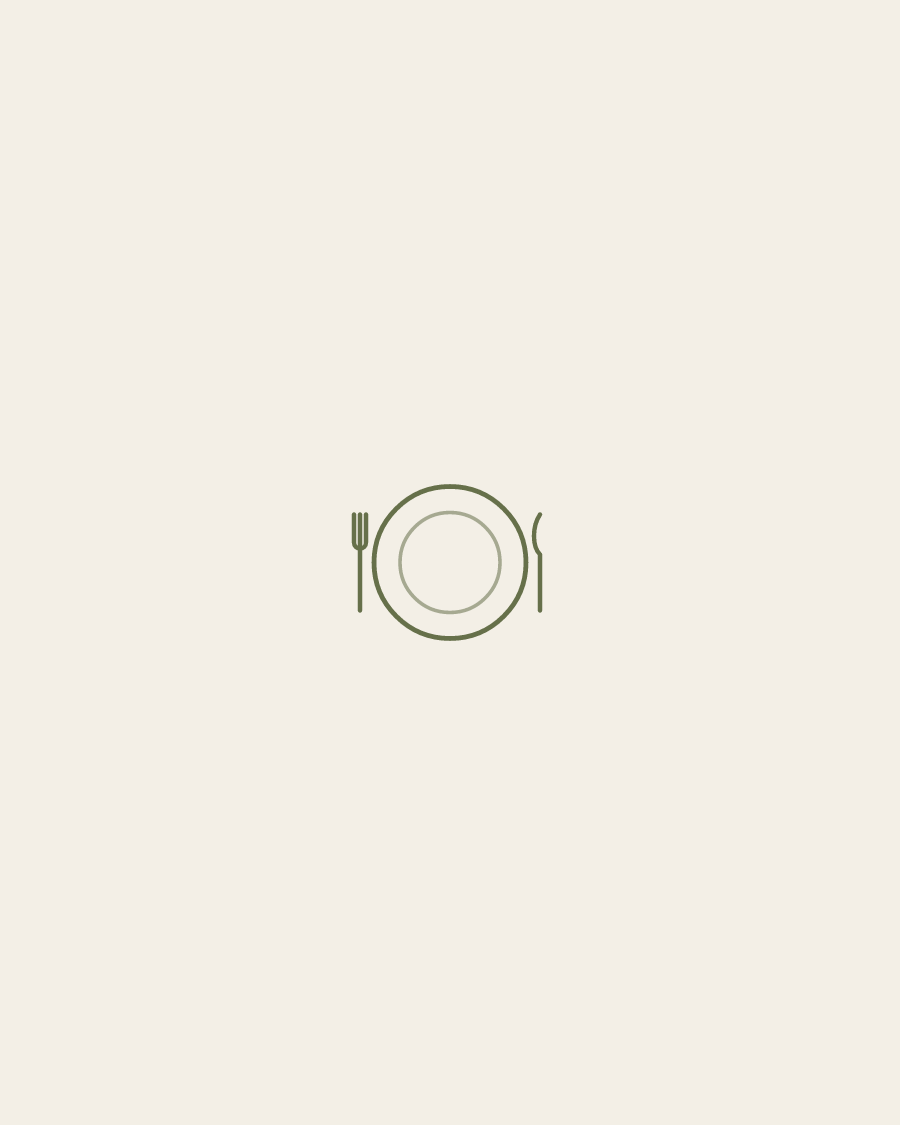
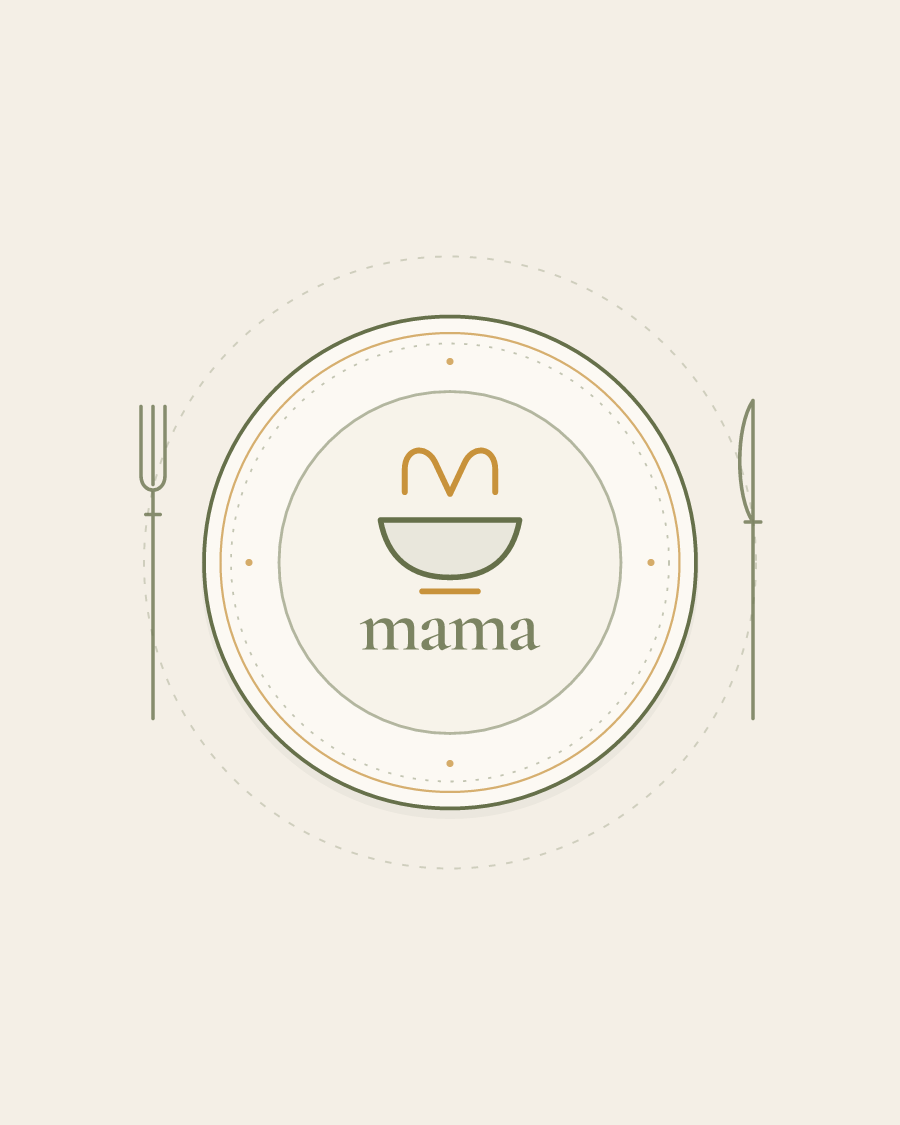
Bespoke large Mama porcelain plate SVG placeholder and expo-updates auto-reload

diff --git a/src/components/common/MamaPlatePlaceholder.tsx b/src/components/common/MamaPlatePlaceholder.tsx
@@ -1,6 +1,6 @@
 import React from 'react';
 import { View, StyleSheet, StyleProp, ViewStyle } from 'react-native';
-import Svg, { Circle, Path } from 'react-native-svg';
+import Svg, { Circle, G, Path } from 'react-native-svg';
 
 interface MamaPlatePlaceholderProps {
   variant?: 'linen' | 'dark';
@@ -8,18 +8,38 @@ interface MamaPlatePlaceholderProps {
   style?: StyleProp<ViewStyle>;
 }
 
+const MAMA_M_FIRST =
+  'M124.546 190C124.358 190 124.264 189.812 124.264 189.436C124.264 189.06 124.358 188.872 124.546 188.872C126.614 188.872 128.024 188.433 128.776 187.556C129.528 186.679 129.904 184.955 129.904 182.386V168.38C129.904 161.487 127.429 158.04 122.478 158.04C120.41 158.04 118.405 158.604 116.462 159.732C114.519 160.86 112.89 162.395 111.574 164.338L111.104 163.21C113.423 159.826 115.898 157.225 118.53 155.408C121.225 153.591 124.076 152.682 127.084 152.682C130.343 152.682 132.881 153.622 134.698 155.502C136.515 157.382 137.424 160.296 137.424 164.244V182.386C137.424 184.955 137.769 186.679 138.458 187.556C139.21 188.433 140.651 188.872 142.782 188.872C143.033 188.872 143.158 189.06 143.158 189.436C143.158 189.812 143.033 190 142.782 190C141.591 190 140.213 189.969 138.646 189.906C137.079 189.843 135.419 189.812 133.664 189.812C131.909 189.812 130.249 189.843 128.682 189.906C127.115 189.969 125.737 190 124.546 190ZM100.012 190C99.824 190 99.73 189.812 99.73 189.436C99.73 189.06 99.824 188.872 100.012 188.872C102.143 188.872 103.553 188.433 104.242 187.556C104.994 186.679 105.37 184.955 105.37 182.386V168.38C105.37 161.487 102.895 158.04 97.944 158.04C95.9386 158.04 93.9333 158.604 91.928 159.732C89.9853 160.86 88.356 162.395 87.04 164.338L86.57 163.21C88.8886 159.826 91.364 157.225 93.996 155.408C96.6906 153.591 99.542 152.682 102.55 152.682C105.871 152.682 108.409 153.591 110.164 155.408C111.981 157.225 112.89 159.92 112.89 163.492V182.386C112.89 184.955 113.266 186.679 114.018 187.556C114.77 188.433 116.211 188.872 118.342 188.872C118.53 188.872 118.624 189.06 118.624 189.436C118.624 189.812 118.53 190 118.342 190C117.089 190 115.679 189.969 114.112 189.906C112.545 189.843 110.885 189.812 109.13 189.812C107.438 189.812 105.777 189.843 104.148 189.906C102.581 189.969 101.203 190 100.012 190ZM75.854 190C75.666 190 75.572 189.812 75.572 189.436C75.572 189.06 75.666 188.872 75.854 188.872C77.9846 188.872 79.3946 188.433 80.084 187.556C80.7733 186.679 81.118 184.955 81.118 182.386V164.432C81.118 162.427 80.8986 160.954 80.46 160.014C80.0213 159.074 79.238 158.604 78.11 158.604C77.546 158.604 76.8566 158.729 76.042 158.98C75.2273 159.231 74.35 159.575 73.41 160.014C73.1593 160.077 72.94 159.951 72.752 159.638C72.6266 159.262 72.658 159.043 72.846 158.98L85.16 152.964C85.4733 152.839 85.6926 152.776 85.818 152.776C86.4446 152.776 87.0713 153.497 87.698 154.938C88.3873 156.379 88.732 158.479 88.732 161.236V182.386C88.732 184.955 89.0766 186.679 89.766 187.556C90.518 188.433 91.9593 188.872 94.09 188.872C94.278 188.872 94.372 189.06 94.372 189.436C94.372 189.812 94.278 190 94.09 190C92.8993 190 91.5206 189.969 89.954 189.906C88.3873 189.843 86.7266 189.812 84.972 189.812C83.28 189.812 81.6193 189.843 79.99 189.906C78.4233 189.969 77.0446 190 75.854 190Z';
+
+const MAMA_A_FIRST =
+  'M171.409 190.564C171.159 190.689 170.877 190.752 170.563 190.752C169.561 190.752 168.558 190.031 167.555 188.59C166.553 187.149 166.051 185.049 166.051 182.292V165.748C166.051 161.8 165.644 158.949 164.829 157.194C164.077 155.439 162.855 154.562 161.163 154.562C159.597 154.562 158.375 155.032 157.497 155.972C156.683 156.849 156.087 157.883 155.711 159.074C155.335 160.202 155.116 161.173 155.053 161.988C154.865 163.555 154.364 164.745 153.549 165.56C152.797 166.375 151.701 166.782 150.259 166.782C148.818 166.782 147.784 166.469 147.157 165.842C146.531 165.153 146.217 164.369 146.217 163.492C146.217 162.113 146.844 160.797 148.097 159.544C149.413 158.228 151.043 157.069 152.985 156.066C154.991 155.063 157.059 154.28 159.189 153.716C161.32 153.089 163.2 152.776 164.829 152.776C167.399 152.776 169.498 153.591 171.127 155.22C172.819 156.849 173.665 159.419 173.665 162.928V179.848C173.665 181.791 173.979 183.263 174.605 184.266C175.232 185.269 176.141 185.77 177.331 185.77C178.334 185.77 179.462 185.488 180.715 184.924C181.029 184.799 181.248 184.924 181.373 185.3C181.499 185.613 181.405 185.833 181.091 185.958L171.409 190.564ZM153.737 190.658C151.105 190.658 149.131 190.031 147.815 188.778C146.562 187.525 145.935 185.927 145.935 183.984C145.935 182.229 146.405 180.819 147.345 179.754C148.285 178.626 149.601 177.717 151.293 177.028C152.985 176.276 154.865 175.524 156.933 174.772L166.991 171.012L167.273 172.422L160.411 175.336C159.659 175.587 158.845 175.963 157.967 176.464C157.09 176.903 156.338 177.498 155.711 178.25C155.147 179.002 154.865 180.005 154.865 181.258C154.865 182.762 155.367 183.984 156.369 184.924C157.372 185.801 158.5 186.24 159.753 186.24C160.317 186.24 160.881 186.177 161.445 186.052C162.009 185.864 162.667 185.519 163.419 185.018L168.495 181.634L168.589 183.044L161.915 187.744C160.474 188.747 159.127 189.499 157.873 190C156.683 190.439 155.304 190.658 153.737 190.658Z';
+
+const MAMA_M_SECOND =
+  'M230.63 190C230.442 190 230.348 189.812 230.348 189.436C230.348 189.06 230.442 188.872 230.63 188.872C232.698 188.872 234.108 188.433 234.86 187.556C235.612 186.679 235.988 184.955 235.988 182.386V168.38C235.988 161.487 233.513 158.04 228.562 158.04C226.494 158.04 224.489 158.604 222.546 159.732C220.603 160.86 218.974 162.395 217.658 164.338L217.188 163.21C219.507 159.826 221.982 157.225 224.614 155.408C227.309 153.591 230.16 152.682 233.168 152.682C236.427 152.682 238.965 153.622 240.782 155.502C242.599 157.382 243.508 160.296 243.508 164.244V182.386C243.508 184.955 243.853 186.679 244.542 187.556C245.294 188.433 246.735 188.872 248.866 188.872C249.117 188.872 249.242 189.06 249.242 189.436C249.242 189.812 249.117 190 248.866 190C247.675 190 246.297 189.969 244.73 189.906C243.163 189.843 241.503 189.812 239.748 189.812C237.993 189.812 236.333 189.843 234.766 189.906C233.199 189.969 231.821 190 230.63 190ZM206.096 190C205.908 190 205.814 189.812 205.814 189.436C205.814 189.06 205.908 188.872 206.096 188.872C208.227 188.872 209.637 188.433 210.326 187.556C211.078 186.679 211.454 184.955 211.454 182.386V168.38C211.454 161.487 208.979 158.04 204.028 158.04C202.023 158.04 200.017 158.604 198.012 159.732C196.069 160.86 194.44 162.395 193.124 164.338L192.654 163.21C194.973 159.826 197.448 157.225 200.08 155.408C202.775 153.591 205.626 152.682 208.634 152.682C211.955 152.682 214.493 153.591 216.248 155.408C218.065 157.225 218.974 159.92 218.974 163.492V182.386C218.974 184.955 219.35 186.679 220.102 187.556C220.854 188.433 222.295 188.872 224.426 188.872C224.614 188.872 224.708 189.06 224.708 189.436C224.708 189.812 224.614 190 224.426 190C223.173 190 221.763 189.969 220.196 189.906C218.629 189.843 216.969 189.812 215.214 189.812C213.522 189.812 211.861 189.843 210.232 189.906C208.665 189.969 207.287 190 206.096 190ZM181.938 190C181.75 190 181.656 189.812 181.656 189.436C181.656 189.06 181.75 188.872 181.938 188.872C184.069 188.872 185.479 188.433 186.168 187.556C186.857 186.679 187.202 184.955 187.202 182.386V164.432C187.202 162.427 186.983 160.954 186.544 160.014C186.105 159.074 185.322 158.604 184.194 158.604C183.63 158.604 182.941 158.729 182.126 158.98C181.311 159.231 180.434 159.575 179.494 160.014C179.243 160.077 179.024 159.951 178.836 159.638C178.711 159.262 178.742 159.043 178.93 158.98L191.244 152.964C191.557 152.839 191.777 152.776 191.902 152.776C192.529 152.776 193.155 153.497 193.782 154.938C194.471 156.379 194.816 158.479 194.816 161.236V182.386C194.816 184.955 195.161 186.679 195.85 187.556C196.602 188.433 198.043 188.872 200.174 188.872C200.362 188.872 200.456 189.06 200.456 189.436C200.456 189.812 200.362 190 200.174 190C198.983 190 197.605 189.969 196.038 189.906C194.471 189.843 192.811 189.812 191.056 189.812C189.364 189.812 187.703 189.843 186.074 189.906C184.507 189.969 183.129 190 181.938 190Z';
+
+const MAMA_A_SECOND =
+  'M277.493 190.564C277.243 190.689 276.961 190.752 276.647 190.752C275.645 190.752 274.642 190.031 273.639 188.59C272.637 187.149 272.135 185.049 272.135 182.292V165.748C272.135 161.8 271.728 158.949 270.913 157.194C270.161 155.439 268.939 154.562 267.247 154.562C265.681 154.562 264.459 155.032 263.581 155.972C262.767 156.849 262.171 157.883 261.795 159.074C261.419 160.202 261.2 161.173 261.137 161.988C260.949 163.555 260.448 164.745 259.633 165.56C258.881 166.375 257.785 166.782 256.343 166.782C254.902 166.782 253.868 166.469 253.241 165.842C252.615 165.153 252.301 164.369 252.301 163.492C252.301 162.113 252.928 160.797 254.181 159.544C255.497 158.228 257.127 157.069 259.069 156.066C261.075 155.063 263.143 154.28 265.273 153.716C267.404 153.089 269.284 152.776 270.913 152.776C273.483 152.776 275.582 153.591 277.211 155.22C278.903 156.849 279.749 159.419 279.749 162.928V179.848C279.749 181.791 280.063 183.263 280.689 184.266C281.316 185.269 282.225 185.77 283.415 185.77C284.418 185.77 285.546 185.488 286.799 184.924C287.113 184.799 287.332 184.924 287.457 185.3C287.583 185.613 287.489 185.833 287.175 185.958L277.493 190.564ZM259.821 190.658C257.189 190.658 255.215 190.031 253.899 188.778C252.646 187.525 252.019 185.927 252.019 183.984C252.019 182.229 252.489 180.819 253.429 179.754C254.369 178.626 255.685 177.717 257.377 177.028C259.069 176.276 260.949 175.524 263.017 174.772L273.075 171.012L273.357 172.422L266.495 175.336C265.743 175.587 264.929 175.963 264.051 176.464C263.174 176.903 262.422 177.498 261.795 178.25C261.231 179.002 260.949 180.005 260.949 181.258C260.949 182.762 261.451 183.984 262.453 184.924C163.456 185.801 264.584 186.24 265.837 186.24C266.401 186.24 266.965 186.177 267.529 186.052C268.093 185.864 268.751 185.519 269.503 185.018L274.579 181.634L274.673 183.044L267.999 187.744C266.558 188.747 265.211 189.499 263.957 190C262.767 190.439 261.388 190.658 259.821 190.658Z'.replace(
+    '163.456 185.801',
+    '263.456 185.801'
+  );
+
 /**
- * Minimal single-stroke line-art SVG plate placeholder matching Mama Kitchen's olive aesthetic.
- * Zero gradients, zero clutter, 0ms instant render.
+ * Bespoke Mama Kitchen Fine Porcelain Place Setting Placeholder.
+ * Features fine double-hairline olive & gold bone-china rim, slender continental cutlery,
+ * and Mama's signature ceramic bowl + golden 'M' steam crest glazed in the center well.
  */
 export const MamaPlatePlaceholder: React.FC<MamaPlatePlaceholderProps> = ({
   variant = 'linen',
-  iconSize = 96,
+  iconSize = 248,
   style,
 }) => {
   const isDark = variant === 'dark';
-  const strokeColor = isDark ? 'rgba(248, 245, 239, 0.42)' : '#66704A';
-  const bgColor = isDark ? '#262A22' : '#F3EFE6';
+  const bgColor = isDark ? '#21251E' : '#F4EFE6';
+  const plateBody = isDark ? '#2B3126' : '#FCF9F3';
+  const plateWell = isDark ? '#242920' : '#F7F3EA';
+  const oliveStroke = isDark ? 'rgba(248, 245, 239, 0.56)' : '#66704A';
+  const goldStroke = isDark ? '#E0AA52' : '#C8923B';
+  const wordmarkFill = isDark ? 'rgba(248, 245, 239, 0.72)' : '#66704A';
 
   return (
     <View
@@ -30,44 +50,138 @@ export const MamaPlatePlaceholder: React.FC<MamaPlatePlaceholderProps> = ({
       ]}
       pointerEvents="none"
     >
-      <Svg width={iconSize} height={iconSize} viewBox="0 0 120 120" fill="none">
-        {/* Outer plate rim */}
+      <Svg width={iconSize} height={iconSize} viewBox="0 0 240 240" fill="none">
+        {/* Subtle outer woven table-mat hairline */}
         <Circle
-          cx="60"
-          cy="60"
-          r="38"
-          stroke={strokeColor}
-          strokeWidth={2.4}
+          cx="120"
+          cy="120"
+          r="102"
+          stroke={oliveStroke}
+          strokeWidth={0.65}
+          strokeDasharray="2.2 3.6"
+          strokeOpacity={isDark ? 0.3 : 0.26}
           fill="none"
         />
-        {/* Inner plate well */}
+
+        {/* Soft plate shadow whisper */}
         <Circle
-          cx="60"
-          cy="60"
-          r="25"
-          stroke={strokeColor}
-          strokeWidth={1.8}
-          strokeOpacity={isDark ? 0.6 : 0.55}
-          fill="none"
+          cx="120"
+          cy="122.5"
+          r="83"
+          fill="#000000"
+          fillOpacity={isDark ? 0.22 : 0.04}
         />
-        {/* Minimal fork (left) */}
+
+        {/* Fine Porcelain Dinner Plate */}
+        <Circle
+          cx="120"
+          cy="120"
+          r="82"
+          fill={plateBody}
+          stroke={oliveStroke}
+          strokeWidth={1.25}
+        />
+
+        {/* Warm Mama Gold Fine Rim Pinstripe */}
+        <Circle
+          cx="120"
+          cy="120"
+          r="76.5"
+          fill="none"
+          stroke={goldStroke}
+          strokeWidth={0.75}
+          strokeOpacity={0.75}
+        />
+
+        {/* Delicate Inner Beaded Rim */}
+        <Circle
+          cx="120"
+          cy="120"
+          r="73"
+          fill="none"
+          stroke={oliveStroke}
+          strokeWidth={0.6}
+          strokeDasharray="1.1 3.1"
+          strokeOpacity={0.38}
+        />
+
+        {/* 4 Fine Cardinal Gold Rim Accents */}
+        <Circle cx="120" cy="53" r="1.2" fill={goldStroke} fillOpacity={0.8} />
+        <Circle cx="187" cy="120" r="1.2" fill={goldStroke} fillOpacity={0.8} />
+        <Circle cx="120" cy="187" r="1.2" fill={goldStroke} fillOpacity={0.8} />
+        <Circle cx="53" cy="120" r="1.2" fill={goldStroke} fillOpacity={0.8} />
+
+        {/* Recessed Plate Well */}
+        <Circle
+          cx="120"
+          cy="120"
+          r="57"
+          fill={plateWell}
+          stroke={oliveStroke}
+          strokeWidth={0.95}
+          strokeOpacity={0.48}
+        />
+
+        {/* Slender Continental Fork (Left) */}
         <Path
-          d="M12 36V50C12 54 18 54 18 50V36M15 36V84"
-          stroke={strokeColor}
-          strokeWidth={2.2}
+          d="M17 68V91C17 97.5 25 97.5 25 91V68M21 68V94M21 96.5V172M18.6 104H23.4"
+          stroke={oliveStroke}
+          strokeWidth={1.2}
           strokeLinecap="round"
           strokeLinejoin="round"
+          strokeOpacity={0.78}
           fill="none"
         />
-        {/* Minimal knife (right) */}
+
+        {/* Slender Continental Knife (Right) */}
         <Path
-          d="M105 36C101 42 101 52 105 56V84"
-          stroke={strokeColor}
-          strokeWidth={2.2}
+          d="M221 66C215 75 215.2 98 221 106.5V172M221 66V106.5M218.4 106.5H223.6"
+          stroke={oliveStroke}
+          strokeWidth={1.2}
           strokeLinecap="round"
           strokeLinejoin="round"
+          strokeOpacity={0.78}
           fill="none"
         />
+
+        {/* BESPOKE MAMA BRAND CREST GLAZED IN PLATE CENTER */}
+        <G transform="translate(120, 107) scale(0.58) translate(-180, -72)">
+          {/* Signature Golden 'M' Steam Ribbon */}
+          <Path
+            d="M154 54V41C154 28 167 26 172 38L180 55L188 38C193 26 206 28 206 41V54"
+            stroke={goldStroke}
+            strokeWidth={3.4}
+            strokeLinecap="round"
+            strokeLinejoin="round"
+            fill="none"
+          />
+          {/* Heritage Olive Ceramic Bowl */}
+          <Path
+            d="M140 70H220C216 92 202 103 180 103C158 103 144 92 140 70Z"
+            fill={oliveStroke}
+            fillOpacity={isDark ? 0.14 : 0.09}
+            stroke={oliveStroke}
+            strokeWidth={3.2}
+            strokeLinecap="round"
+            strokeLinejoin="round"
+          />
+          {/* Warm Gold Bowl Foot */}
+          <Path
+            d="M164 111H196"
+            stroke={goldStroke}
+            strokeWidth={3.4}
+            strokeLinecap="round"
+            strokeLinejoin="round"
+          />
+        </G>
+
+        {/* Exact 'mama' Serif Brand Mark Glazed Below Bowl */}
+        <G transform="translate(120, 144) scale(0.28) translate(-180, -172)">
+          <Path d={MAMA_M_FIRST} fill={wordmarkFill} fillOpacity={0.85} />
+          <Path d={MAMA_A_FIRST} fill={wordmarkFill} fillOpacity={0.85} />
+          <Path d={MAMA_M_SECOND} fill={wordmarkFill} fillOpacity={0.85} />
+          <Path d={MAMA_A_SECOND} fill={wordmarkFill} fillOpacity={0.85} />
+        </G>
       </Svg>
     </View>
   );

diff --git a/App.tsx b/App.tsx
@@ -1,7 +1,8 @@
-import React, { useState, useEffect } from 'react';
-import { View, ActivityIndicator } from 'react-native';
+import React, { useState, useEffect, useRef } from 'react';
+import { View, ActivityIndicator, AppState } from 'react-native';
 import { NavigationContainer } from '@react-navigation/native';
 import { SafeAreaProvider, initialWindowMetrics } from 'react-native-safe-area-context';
+import * as Updates from 'expo-updates';
 import { RootNavigator } from './src/navigation';
 import { ErrorBoundary } from './src/components/common/ErrorBoundary';
 import { wakeBackendServer } from './src/services/api/client';
@@ -16,13 +17,32 @@ import { colors } from './src/theme/colors';
 
 export default function App() {
   const [isReady, setIsReady] = useState(false);
+  const lastUpdateCheckRef = useRef<number>(0);
 
   useEffect(() => {
     // Wake Render backend immediately so AI calls don't stall on cold start
     wakeBackendServer();
 
+    const checkAndApplyOtaUpdate = async () => {
+      if (__DEV__ || !Updates.isEnabled) return;
+      const now = Date.now();
+      if (now - lastUpdateCheckRef.current < 60_000) return;
+      lastUpdateCheckRef.current = now;
+      try {
+        const update = await Updates.checkForUpdateAsync();
+        if (update.isAvailable) {
+          const fetched = await Updates.fetchUpdateAsync();
+          if (fetched.isNew) {
+            await Updates.reloadAsync();
+          }
+        }
+      } catch {
+        // Ignore transient offline or update check errors
+      }
+    };
+
     // Restore JWT and local preferences before first screen renders;
-    // sync remote pantry/saved meals/billing asynchronously so startup stays instant.
+    // sync remote pantry/saved meals/billing/OTA updates asynchronously so startup stays instant.
     const initApp = async () => {
       try {
         await Promise.all([tokenStore.init(), preferencesStore.init()]);
@@ -32,11 +52,19 @@ export default function App() {
         setIsReady(true);
       }
 
+      checkAndApplyOtaUpdate();
       pantryService.fetchAll().catch(() => {});
       savedMealsService.fetchAll().catch(() => {});
       subscriptionService.init(tokenStore.getUser()?.id).catch(() => {});
     };
     initApp();
+
+    const appStateSub = AppState.addEventListener('change', (nextState) => {
+      if (nextState === 'active') {
+        checkAndApplyOtaUpdate();
+      }
+    });
+    return () => appStateSub.remove();
   }, []);
 
   if (!isReady) {

diff --git a/src/components/MealVideoPlayer.tsx b/src/components/MealVideoPlayer.tsx
@@ -115,8 +115,8 @@ export const MealVideoPlayer: React.FC<MealVideoPlayerProps> = ({
 
   return (
     <View style={[styles.container, style]}>
-      {/* Minimal SVG Plate Background (guarantees zero black-flash before stream buffers or on error) */}
-      <MamaPlatePlaceholder variant="dark" iconSize={96} />
+      {/* Branded Fine Mama Plate Background (guarantees zero black-flash before stream buffers or on error) */}
+      <MamaPlatePlaceholder variant="dark" iconSize={220} />
       {posterUrl && !MealImageService.isPlaceholderImage(posterUrl) ? (
         <Image
           source={{ uri: posterUrl }}

diff --git a/src/screens/09_meal_details/02_EatingOutMealDetails.tsx b/src/screens/09_meal_details/02_EatingOutMealDetails.tsx
@@ -162,7 +162,7 @@ export const EatingOutMealDetails: React.FC<Props> = ({ navigation, route }) => 
             {image && !MealImageService.isPlaceholderImage(image) ? (
               <Image source={{ uri: image }} style={styles.heroImage} resizeMode="cover" />
             ) : (
-              <MamaPlatePlaceholder variant="linen" iconSize={88} />
+              <MamaPlatePlaceholder variant="linen" iconSize={192} />
             )}
             <View style={styles.distanceTag}>
               <Ionicons name="location-outline" size={12} color={colors.primary} />

diff --git a/src/screens/04_daily_edit/components/RollRevealModal.tsx b/src/screens/04_daily_edit/components/RollRevealModal.tsx
@@ -370,7 +370,7 @@ export const RollRevealModal: React.FC<RollRevealModalProps> = ({
                     soundPillTop={56}
                   />
                 ) : MealImageService.isPlaceholderImage(imageUri) ? (
-                  <MamaPlatePlaceholder variant="linen" iconSize={96} />
+                  <MamaPlatePlaceholder variant="linen" iconSize={232} />
                 ) : (
                   <Image
                     source={{ uri: imageUri }}

diff --git a/src/screens/09_meal_details/01_AtHomeMealDetails.tsx b/src/screens/09_meal_details/01_AtHomeMealDetails.tsx
@@ -717,7 +717,7 @@ export const AtHomeMealDetails: React.FC<Props> = ({ navigation, route }) => {
                 creatorPillBottom={52}
               />
             ) : MealImageService.isPlaceholderImage(image) ? (
-              <MamaPlatePlaceholder variant="linen" iconSize={88} />
+              <MamaPlatePlaceholder variant="linen" iconSize={192} />
             ) : (
               <Image
                 source={{ uri: image }}

diff --git a/src/screens/05_discover/01_DiscoverYourNextMeal.tsx b/src/screens/05_discover/01_DiscoverYourNextMeal.tsx
@@ -415,7 +415,7 @@ export const DiscoverYourNextMeal: React.FC<Props> = ({ navigation }) => {
             creatorPillBottom={108}
           />
         ) : MealImageService.isPlaceholderImage(item.resolvedImage) ? (
-          <MamaPlatePlaceholder variant="dark" iconSize={104} />
+          <MamaPlatePlaceholder variant="dark" iconSize={244} />
         ) : (
           <Image
             source={{ uri: item.resolvedImage }}

diff --git a/src/screens/04_daily_edit/components/MealCardDeck.tsx b/src/screens/04_daily_edit/components/MealCardDeck.tsx
@@ -309,7 +309,7 @@ export const MealCardDeck: React.FC<MealCardDeckProps> = ({
             }
 
             if (MealImageService.isPlaceholderImage(catalogImageUrl)) {
-              return <MamaPlatePlaceholder variant="linen" iconSize={104} />;
+              return <MamaPlatePlaceholder variant="linen" iconSize={264} />;
             }
 
             return (

diff --git a/src/screens/10_collection/components/SavedMealCard.tsx b/src/screens/10_collection/components/SavedMealCard.tsx
@@ -71,7 +71,7 @@ export const SavedMealCard: React.FC<SavedMealCardProps> = ({
             resizeMode="cover"
           />
         ) : (
-          <MamaPlatePlaceholder variant="dark" iconSize={68} />
+          <MamaPlatePlaceholder variant="dark" iconSize={144} />
         )}
 
         {/* Top Row: Time/Cost Pill + Bookmark Button */}
